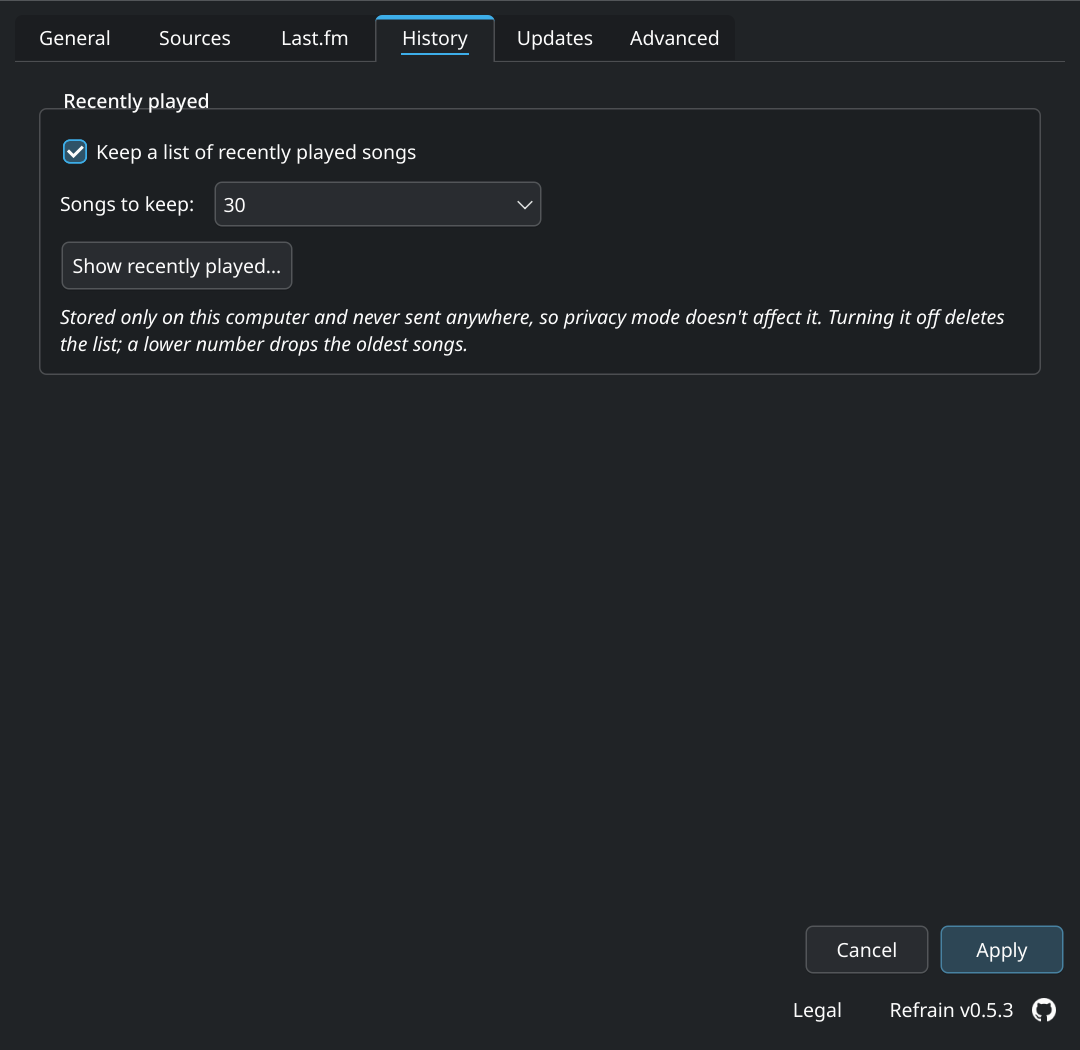
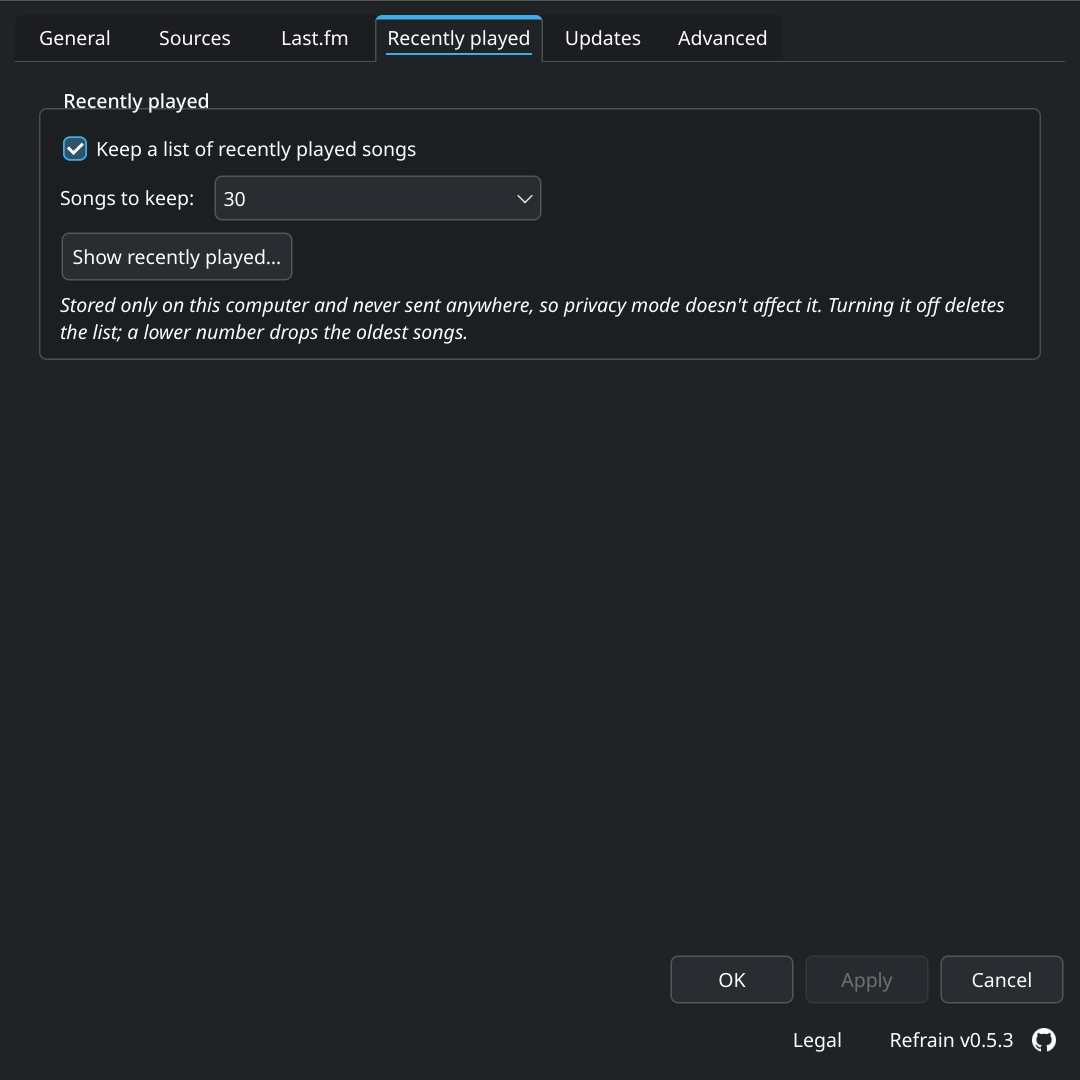
Release v0.5.3

diff --git a/src/refrain/__init__.py b/src/refrain/__init__.py
@@ -1,1 +1,1 @@
-__version__ = "0.5.3.dev0"
+__version__ = "0.5.3"

diff --git a/CHANGELOG.md b/CHANGELOG.md
@@ -9,6 +9,22 @@ lists every version and why.
 
 ## [Unreleased]
 
+## [0.5.3] - 2026-09-20
+
+The first release with an AppImage that works, and a thorough one. Every
+AppImage before it stopped at start; this one starts on Ubuntu, Debian,
+Fedora, openSUSE and Arch, carries the licences of what it bundles, and
+updates itself only with files that match the release's signed
+checksums.
+Settings take effect the moment you apply them, a typo in config.toml no
+longer costs every setting, Last.fm keeps its offline queue through key
+and server errors, and Discord gets the status back after a restart.
+A new Status window says in plain words whether Discord and Last.fm are
+working, and holds the switch that pauses sharing. Refrain now speaks
+sixteen languages, Dutch, Swedish, Czech, Turkish, Ukrainian and Korean
+among them, uses less CPU while idle, and has a developer mode that times
+every step locally and never sends anything.
+
 ### Added
 
 - **Six more languages:** Dutch, Swedish, Czech, Turkish, Ukrainian and
@@ -16,8 +32,79 @@ lists every version and why.
   French now says "vous" throughout, Portuguese sticks to one variant, and
   texts quoting what Discord shows keep Discord's English wording.
 - **A link to Last.fm in the Last.fm tab**, as Last.fm's API terms ask.
+- **Developer mode** for finding slow spots: click the version number in
+  *Settings* six times to turn it on. Refrain then measures how long each
+  step of a poll, the startup and requests to Apple, Last.fm, GitHub and
+  Discord take, its memory use, and which windows, tabs and buttons get
+  used. The results show in a new *Developer* tab of the live log and can
+  be exported; they are kept in a local file and never sent anywhere. Song
+  titles and anything you type are never recorded. It also warns when a
+  window shows text that does not fit, and a test renders every window in
+  all sixteen languages so that cannot ship. See
+  [docs/developer-mode.md](docs/developer-mode.md).
+- **A Status window** answers "is it working?": the song playing now,
+  whether Discord shows it and whether Last.fm scrobbles it, in plain
+  words, with a button only when there is something to do (*Set up…*,
+  *Fix…*, *Reconnect…*), the last five songs, *Pause sharing* and
+  *Settings…*. It replaces the settings window at start and on a click on
+  the tray icon. A start at login opens it only when something needs you;
+  after the welcome wizard it says *You're all set*. A title or album too
+  long for the window scrolls past twice, as Apple Music does, and while
+  the window is open a song notification would only repeat it, so none is
+  shown.
+- **Pause sharing** in the Status window stops the
+  Discord status and Last.fm scrobbling in one click, and *Resume sharing*
+  brings back the privacy mode you had.
 
 ### Changed
+
+- **Starting Refrain while it runs brings up its Status window**
+  instead of a dead-end "Refrain is already running."
+- **The tray says what Discord really shows.** It read "Discord: not
+  connected" until the first song, even with everything in order, and
+  looked the same for a missing Application ID, a closed Discord and a
+  rejected ID. It now says *ready — waiting for music*, *showing your
+  song*, *hidden while paused*, *hidden — sharing is off*, *app isn't
+  running*, *not set up* or *Application ID rejected*, and a rejected ID
+  shows before the first song. The Last.fm line follows scrobbling live
+  instead of the one check at startup.
+- **Song changes reach Discord at once.** Refrain held every update back
+  until four seconds after the last one; it now sends straight away and
+  only waits once five updates went out within 20 seconds, Discord's
+  own limit, sending the newest state then.
+- **The tray menu is shorter:** *Live log…* and *Restart Refrain* moved
+  into a *Troubleshooting* submenu.
+- **Settings no longer lose changes without asking.** *Apply* saves and
+  keeps the window open, the new *OK* saves and closes, and closing with
+  unsaved changes (*Cancel*, <kbd>Esc</kbd> or the close button) asks
+  *Save*, *Discard* or *Keep editing*. *Apply* used to close the window,
+  and closing it dropped every change on every tab.
+- **No more silent restarts.** Only a new language still needs one, and
+  Refrain says so and asks first. A new Discord Application ID takes
+  effect without a restart.
+- ***Reset all settings to defaults* takes effect at once** instead of
+  waiting for another *Apply*.
+- **A Last.fm connection is saved the moment it is made** and switches
+  scrobbling on, so *Cancel* can no longer lose it; *Disconnect* is saved
+  at once too. Settings ask when an account is connected but scrobbling
+  is off.
+- **Privacy *Off* says what it does:** it pauses the Discord status and
+  Last.fm scrobbling. Privacy has its own group now, together with *Look
+  up songs in Apple's catalog* (was *Fetch album cover art from iTunes*
+  under Notifications), which also gives Discord the song link and the
+  progress bar.
+- **Song notifications are off for new installs.** A config from an
+  earlier version keeps the setting it had.
+- **One name for each thing:** *Application ID* everywhere, as in
+  Discord's Developer Portal, instead of "Client ID"; the *History* tab is
+  *Recently played*, like the window; American spelling throughout. The
+  Advanced tab explains the poll interval, the notification delay and the
+  log levels, and the developer mode switch stays there once unlocked.
+- **Settings fit in every language:** the General tab no longer runs off
+  the right edge when the application's name is shown, Sources and
+  Advanced fit without a scrollbar, hints are no longer slanted in
+  Chinese, Japanese and Korean, and *Turn off history?* has its *Cancel*
+  in the chosen language.
 
 - **Connecting to Last.fm waits for your approval.** After *Connect…*
   opened Last.fm's page, an OK clicked before approving there ended in
@@ -43,7 +130,9 @@ lists every version and why.
 - **The in-app AppImage update checks what it downloads**: it only takes
   files from this project's GitHub releases over HTTPS, for your machine's
   architecture, of the announced size and — from this release on — with
-  a matching checksum.
+  a checksum from a `SHA256SUMS` carrying a valid Ed25519 signature.
+  An update whose checksums are missing, unsigned or signed with another
+  key is refused.
 - **The AppImage is a third of its old size** and ships the licence texts
   of everything it bundles. Qt modules only available under the GPL are
   no longer included.
@@ -59,6 +148,26 @@ lists every version and why.
 - **The licence** now words its liability terms to hold under German law,
   lets contributors keep authorship while granting the use of their
   work, and allows forks that only prepare a pull request.
+
+- **The Status window plays too**: previous, play/pause and next, the time
+  played so far, five recent songs, and a link to the project. Long titles
+  scroll past twice instead of ending in "…".
+- **Over Bluetooth, Refrain shows Apple Music only.** A song played in
+  another service on the phone is left out, and the log says which app it
+  was. Apple Music counts under its translated names too.
+- **The tray menu lost *Pause sharing* and *Settings…***, because a click
+  on the icon already opens the window that holds both.
+- **Every link out of Refrain asks first** and names the page it opens.
+- **Last.fm gets the album** Refrain looked up, when the browser reports
+  none — without it Last.fm shows no cover for the song.
+- **The live log opens at the level Refrain logs at**, the one set under
+  *Advanced*, instead of always at INFO. Its *Developer* tab reads as
+  plain aligned columns now, wide enough for the numbers and without the
+  empty boxes.
+- **The window with "Refrain is already running" closes itself** after a
+  few seconds; there is nothing to decide.
+- **Switching sharing off and on again takes a second**, because Discord
+  loses track of a status that is cleared and set again at once.
 
 ### Fixed
 
@@ -77,7 +186,8 @@ lists every version and why.
 - **A missing system library ended in Qt's crash.** When a pip install
   lacked a library Qt's Wayland or X11 plugin needs, Qt aborted with
   "no Qt platform plugin could be initialized". Refrain now names the
-  missing library and the command that installs it on your distro.
+  missing library and the command that installs it on your distro, as a
+  desktop notification even where `notify-send` is not installed.
 - **With two Bluetooth devices connected, the one playing could go
   unseen.** Without a device chosen in the settings, Refrain took the
   first player BlueZ listed — an idle tablet, say, while music played on
@@ -114,7 +224,7 @@ lists every version and why.
   same number, and after every earlier one.
 - **Uninstalling from the settings hung** instead of quitting.
 - **Cancel did not undo the settings form**, so the next *Apply* saved
-  what had been cancelled — also after *Reset*.
+  what had been canceled — also after *Reset*.
 - **Looking up the Discord application's name could freeze or crash the
   settings window** when Discord was slow to answer.
 - **A single typo in `config.toml` cost every setting.** The file was
@@ -148,6 +258,36 @@ lists every version and why.
   skip while the previous song was still waiting for its cover.
 - **A song title starting with a dash** could be read as an option by
   `notify-send`.
+- **The pointing hand sat on the empty strip beside the tabs**, not only
+  on the tabs themselves.
+- **The Settings window shows a scrollbar on the Advanced tab** with
+  larger fonts; it now opens as tall as its longest tab, within what the
+  screen has.
+- **The Status window showed no cover with the history turned off** — the
+  cover now comes straight from the player's song — and said nothing at
+  all about the list being off.
+- **Discord could drop a song's status for good.** A refusal can also be a
+  hiccup on Discord's side, so Refrain tries once more after 20 seconds.
+- **Songs whose title carries a tag** ("- Remix", "(HardTekk)") are now
+  also looked up without it, which finds covers and lengths that were
+  missed before.
+- **A crash went unmentioned.** If Refrain ended unexpectedly, the next
+  start says so once and opens the report it already wrote
+  (`~/.local/state/refrain/crash.log`) when you click the notice. Nothing
+  is sent anywhere.
+- **Twelve texts were never translated**, among them every startup error
+  ("Refrain is already running", "No system tray", the D-Bus notice) and
+  the uninstall report: a shorthand in the code hid them from the
+  translation tool. They now speak all sixteen languages.
+- **Quitting during an update check could abort Refrain**, because the
+  check's thread was still waiting on the network.
+- **A song without a length never counted for Last.fm, and nothing said
+  why.** The log now names it, and songs under 30 seconds too.
+- **With two Apple Music tabs paused, Refrain could switch between them**
+  from one poll to the next. It now stays with the one it showed.
+- **The live log missed the first lines of a start.** It now shows them.
+- **Debug logs contained your Bluetooth device's full address.** All but
+  the last two bytes are now replaced with `XX`.
 - **The Flatpak manifest could not be built**, and inside the Flatpak the
   MPRIS entry and desktop file name did not match the app.
 - **A player that sent its artist as plain text had it spelled out letter
@@ -1918,7 +2058,8 @@ with a proper, installable Linux app.
   pip-audit, trufflehog, release), Dependabot, issue + PR templates,
   `CONTRIBUTING.md`, `CODE_OF_CONDUCT.md`, `SECURITY.md`.
 
-[Unreleased]: https://github.com/Rockykln/refrain/compare/v0.5.2...HEAD
+[Unreleased]: https://github.com/Rockykln/refrain/compare/v0.5.3...HEAD
+[0.5.3]: https://github.com/Rockykln/refrain/compare/v0.5.2...v0.5.3
 [0.5.2]: https://github.com/Rockykln/refrain/compare/v0.5.1...v0.5.2
 [0.5.1]: https://github.com/Rockykln/refrain/compare/v0.4.6...v0.5.1
 [0.4.6]: https://github.com/Rockykln/refrain/compare/v0.4.5...v0.4.6

diff --git a/README.md b/README.md
@@ -661,16 +661,16 @@ inside the app under **Settings → Legal**.
 
 | Stat | Value |
 |---|---|
-| Lines of code | 9,799 |
-| Lines in the repository | 62,146 |
-| Words in the repository | 226,663 |
-| Words of documentation | 39,969 |
-| Automated tests | 2,076 |
-| Test coverage | 99 % |
+| Lines of code | 13,036 |
+| Lines in the repository | 87,223 |
+| Words in the repository | 306,660 |
+| Words of documentation | 46,958 |
+| Automated tests | 2,128 |
+| Test coverage | 100 % |
 | Days since the first release | 138 |
 | Versions released | 24 |
 | Downloads | 2,676 |
-| Commits | 205 |
+| Commits | 211 |
 | Languages | 16 |
 | Runtime dependencies | 3 |
 | Browsers tested | 5 (Chrome, Chromium, Brave, Firefox, Zen) |

diff --git a/docs/releases.md b/docs/releases.md
@@ -11,6 +11,7 @@ keep working.
 
 | Version | Released | Get it from |
 |---------|----------|-------------|
+| 0.5.3 | 2026-09-20 | PyPI, AUR, GitHub (with AppImage) |
 | 0.5.2 | 2026-09-18 | PyPI, AUR, GitHub |
 | 0.5.1 | 2026-09-15 | PyPI, GitHub |
 | 0.4.6 | 2026-08-26 | PyPI, GitHub |
